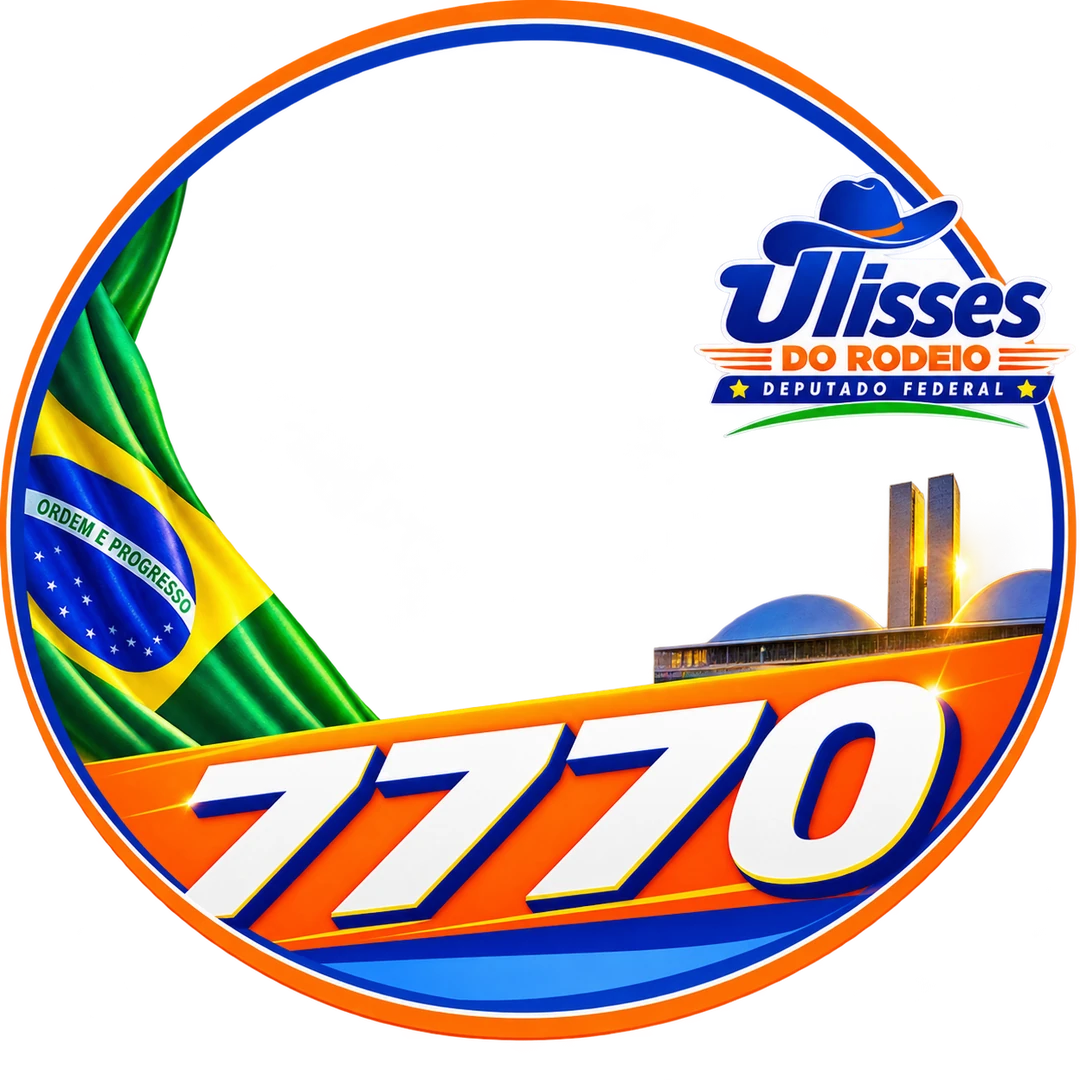
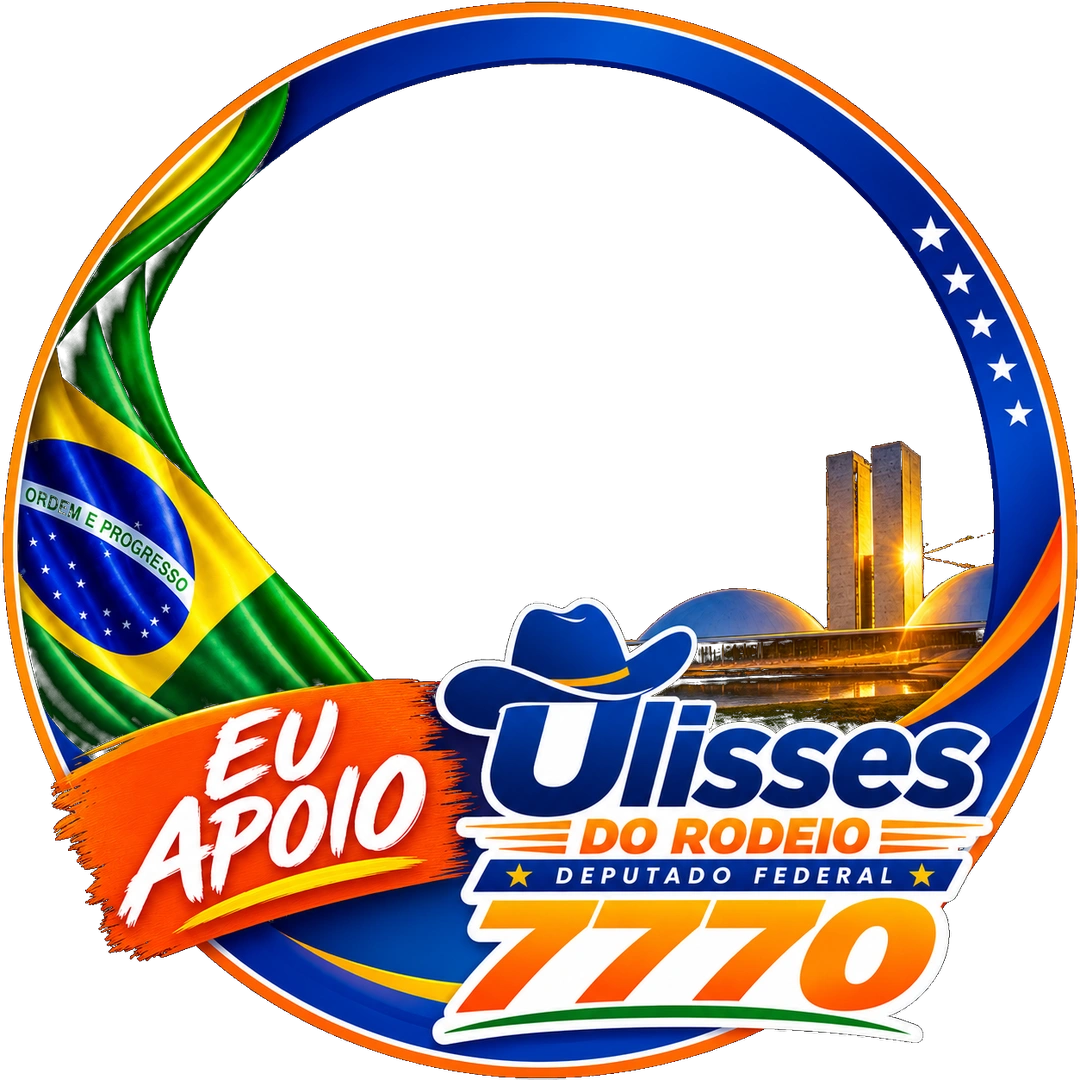
feat: troca arte da moldura de foto pela peça "Eu apoio"
Substitui o fundo de filtros pela nova arte oficial, com bandeira,
faixa "Eu apoio" e logo 7770. Máscara e abertura recalculadas para
a nova geometria do círculo central.

Claude-Session: https://claude.ai/code/session_01JrXEM7oGB2g4BnazUvepiM

diff --git a/app/components/moldura-foto.tsx b/app/components/moldura-foto.tsx
@@ -23,7 +23,7 @@ const MASCARA_SRC = `${BASE}/moldura-7770-mascara.png`;
 /** Laranja da campanha, usado onde a arte não cobre e a foto não entra. */
 const LARANJA = "#F36C21";
 /** Círculo interno da moldura, medido no arquivo da arte. */
-const ABERTURA = { cx: 593.5, cy: 498, raio: 461 };
+const ABERTURA = { cx: 548, cy: 498, raio: 431 };
 const ZOOM_MIN = 0.5;
 const ZOOM_MAX = 3;
 /** Folga extra de arrasto, fração do lado da abertura, além da área coberta pela foto. */
